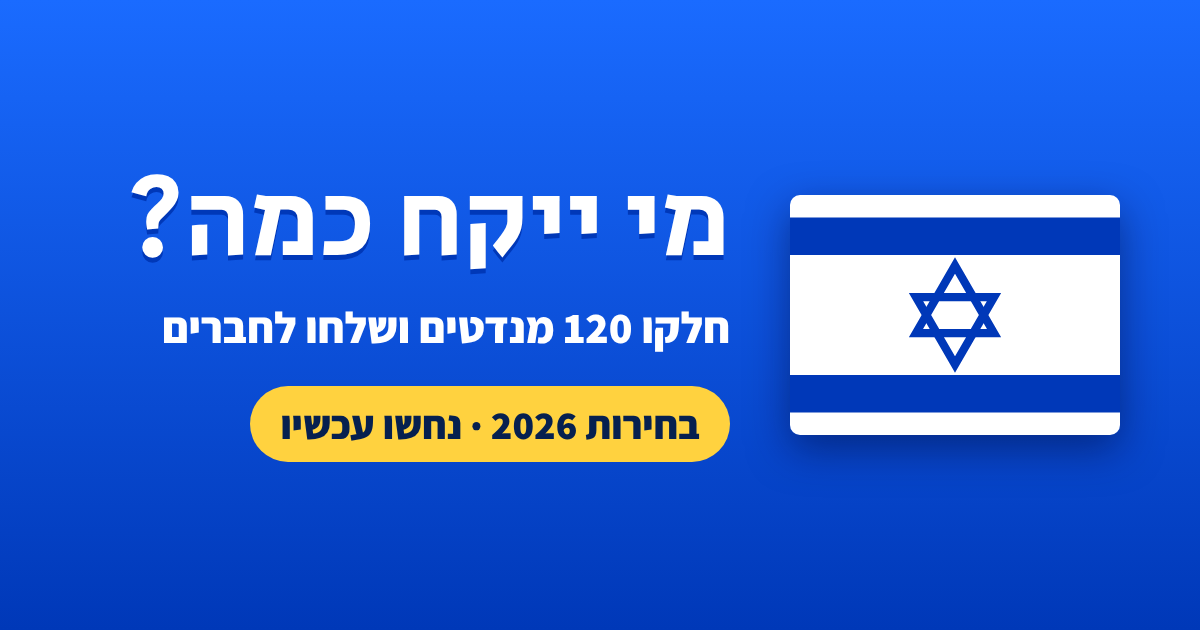
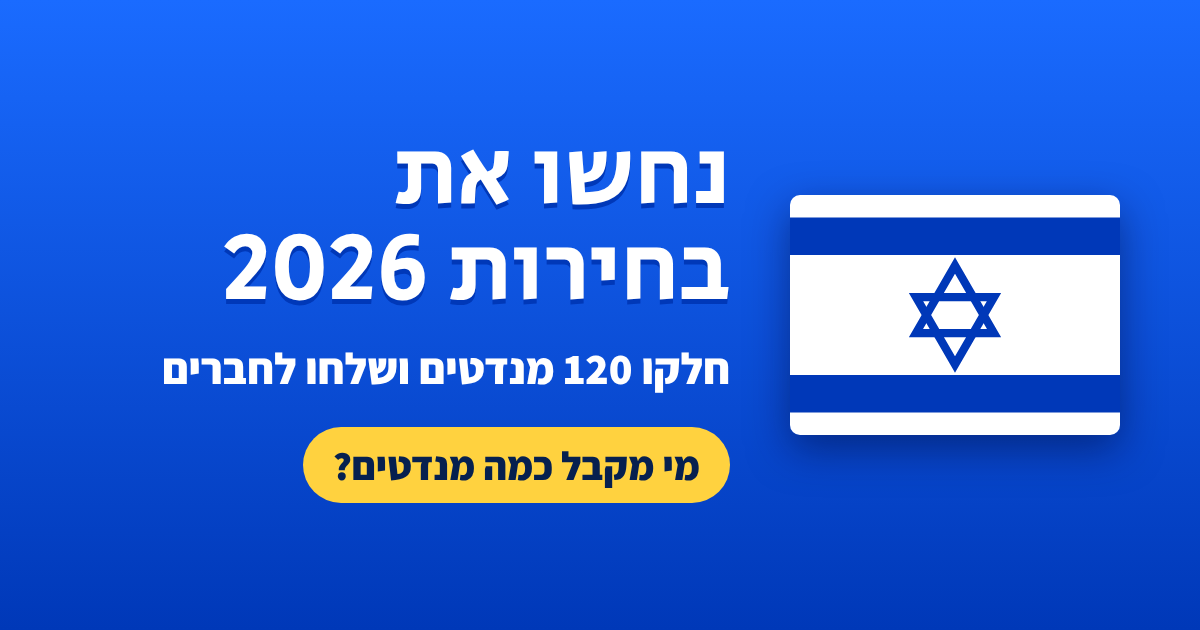
Headline: נחשו את בחירות 2026
Claude-Session: https://claude.ai/code/session_011zLgVRGcwNmGERSTmv9Eor

Changed region(s): [[0.0925, 0.2413, 0.6167, 0.8143]]

diff --git a/index.html b/index.html
@@ -5,9 +5,9 @@
 <meta name="viewport" content="width=device-width,initial-scale=1,viewport-fit=cover">
 <title>ניחוש המנדטים 2026</title>
 <meta name="description" content="חלקו 120 מנדטים בין המפלגות ושלחו את הניחוש שלכם לחברים בווטסאפ.">
-<meta property="og:title" content="מי ייקח כמה? ניחוש המנדטים 2026">
+<meta property="og:title" content="נחשו את בחירות 2026">
 <meta property="og:description" content="חלקו 120 מנדטים בין המפלגות ושלחו את הניחוש לחברים.">
-<meta property="og:image" content="https://ozmadvil.github.io/mandatim/og.png">
+<meta property="og:image" content="https://ozmadvil.github.io/mandatim/og.png?v=2">
 <meta property="og:url" content="https://ozmadvil.github.io/mandatim/">
 <meta name="twitter:card" content="summary_large_image">
 <link rel="preconnect" href="https://fonts.googleapis.com">
@@ -122,7 +122,7 @@ footer{color:var(--paper);opacity:.7;text-align:center;font-size:.8rem}
         <polygon points="110,113 84,68 136,68"/>
       </g>
     </svg>
-    <h1>מי ייקח כמה?</h1>
+    <h1>נחשו את בחירות 2026</h1>
     <p class="sub">חלקו 120 מנדטים בין המפלגות, ושלחו את הניחוש שלכם לחברים בווטסאפ.</p>
   </header>
 

diff --git a/README.md b/README.md
@@ -1,4 +1,4 @@
-# מי ייקח כמה? – ניחוש המנדטים 2026
+# נחשו את בחירות 2026 – ניחוש המנדטים 2026
 
 אתר סטטי: חלוקת 120 מנדטים בין המפלגות ושיתוף הניחוש בווטסאפ כתמונה עם קישור.
 
